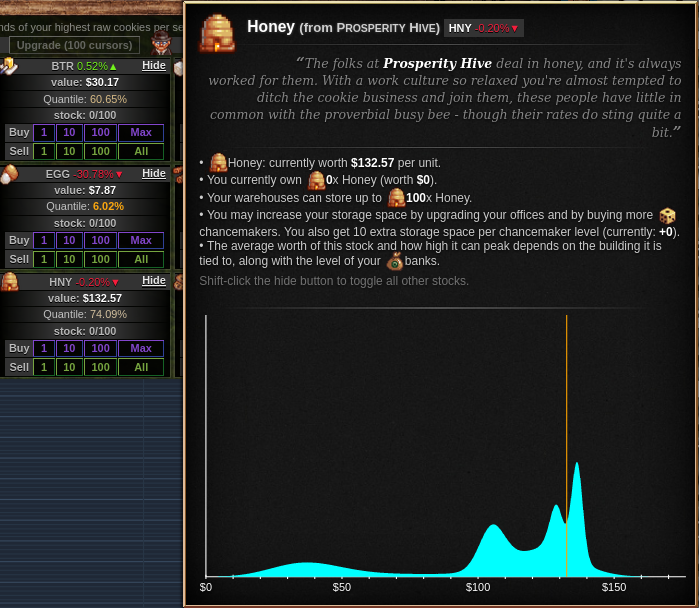
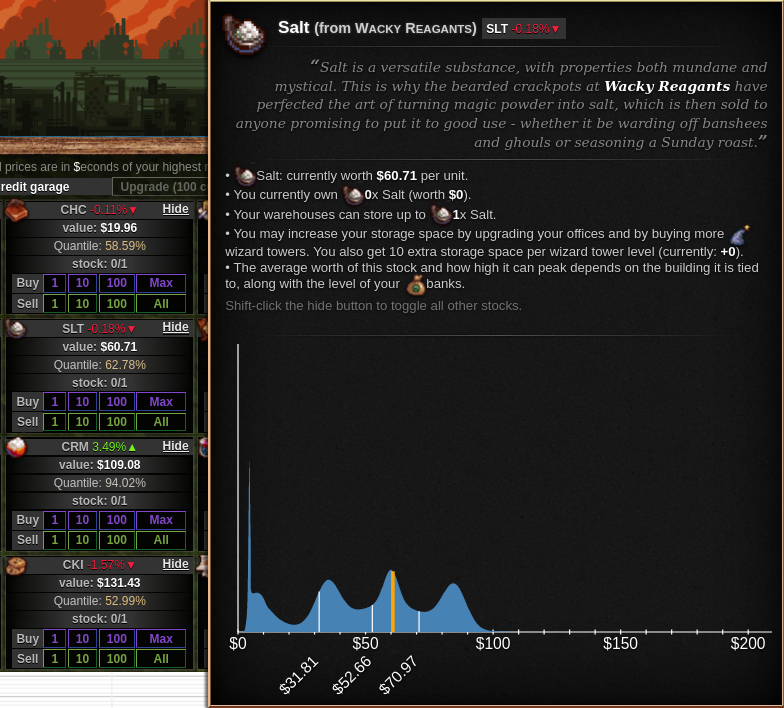
Document the quantile lines.

diff --git a/README.md b/README.md
@@ -66,8 +66,11 @@ This add-on modifies the interface to add two bits of information to the stock m
 
 First,
 it modifies the tooltip for the stock market goods
-to display the histogram for that specific good,
-along with a vertical orange line pointing to the current good price.
+to display the histogram for that specific good.
+The orange line is the current value of the good.
+The three white lines are the 25%, 50%, and 75% percentiles,
+so, for example, the first quartile for SLT is at $31.81.
+The quantiles can be customized in the settings.
 
 Second,
 it adds a bar between the current stock value and the amount that stock owned.
@@ -75,8 +78,8 @@ It displays the quantile of that stock value,
 compared to the dataset.
 For example,
 in the picture above,
-HNY is worth $132.57 and its quantile is 74.09%;
-this means that HNY was at or below $132.57 in 74.09% of the time during the simulation.
+SLT is worth $60.71 and its quantile is 62.78%;
+this means that HNY was at or below $60.71 in 62.78% of the time during the simulation.
 
 The color of text ranges from gray to orange:
 it is orange for stocks that you don't currently own and are at a low price (quantile-wise),
